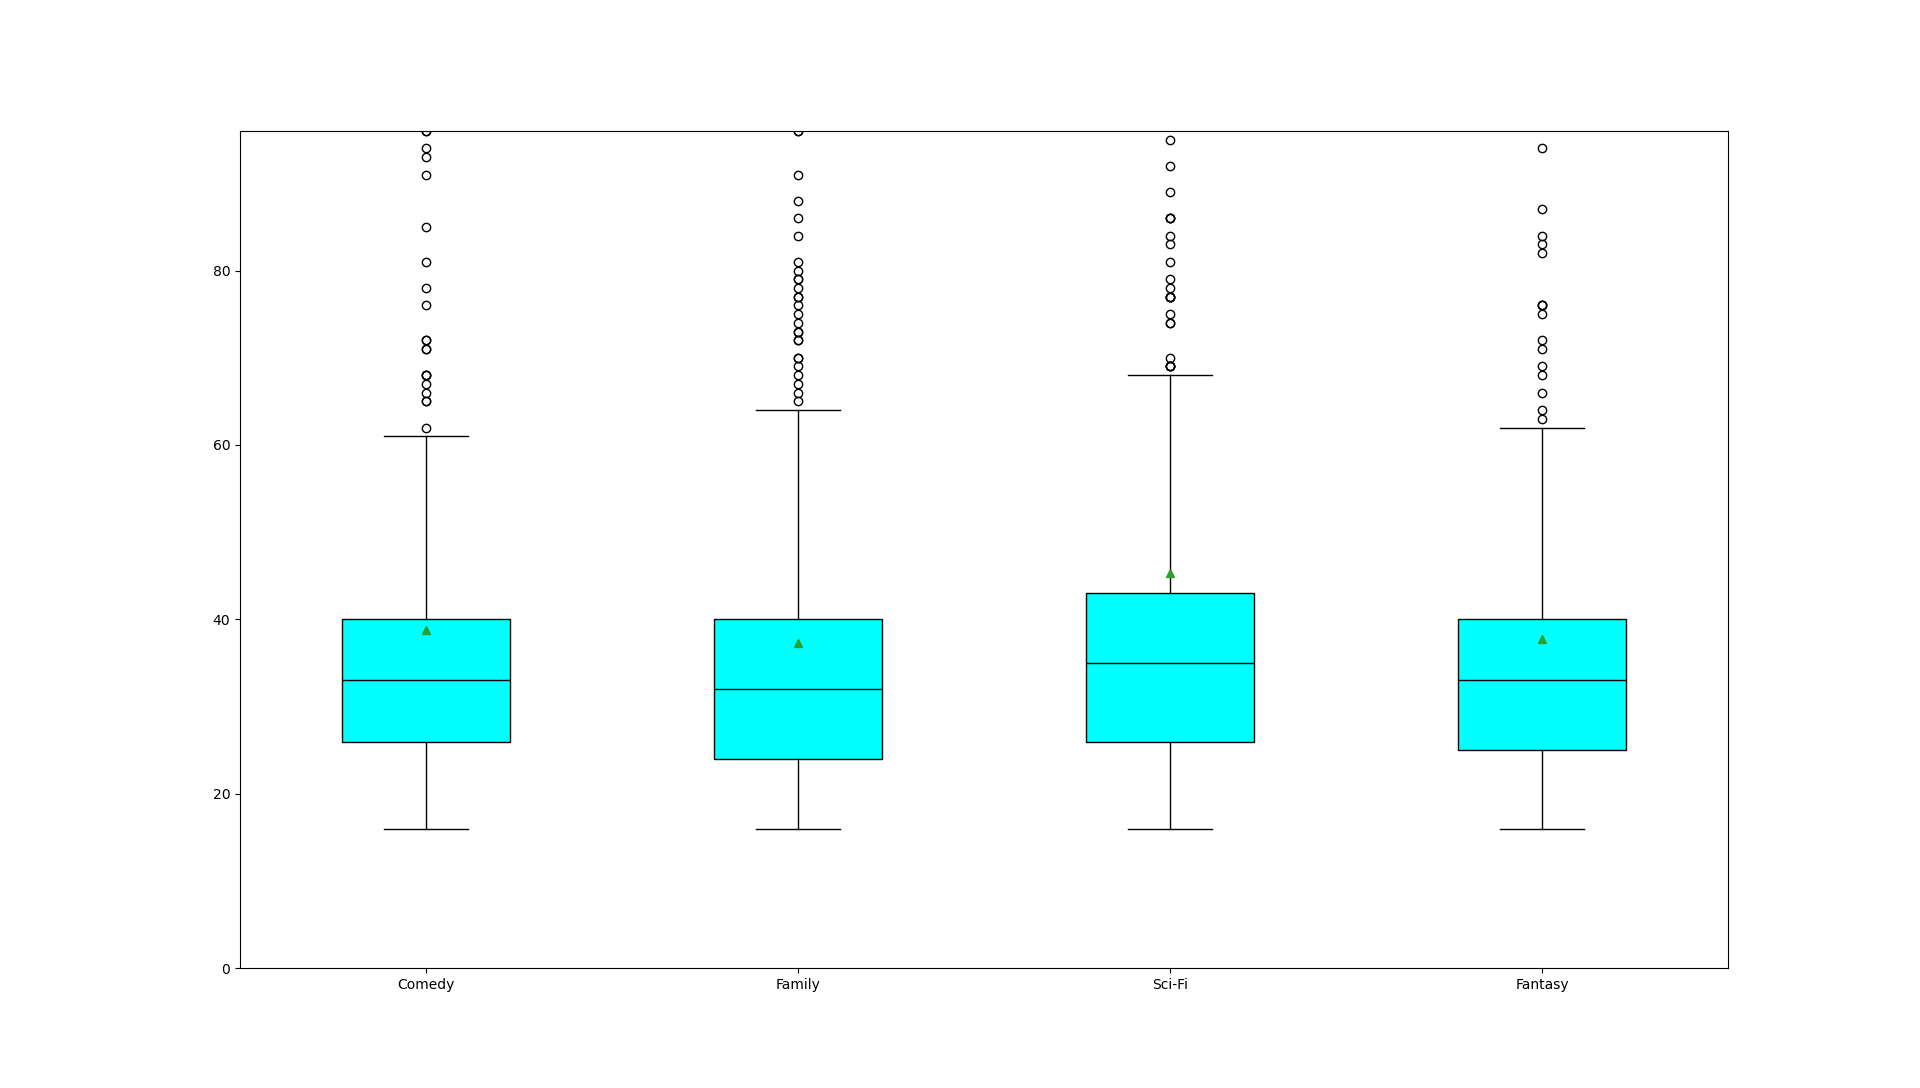
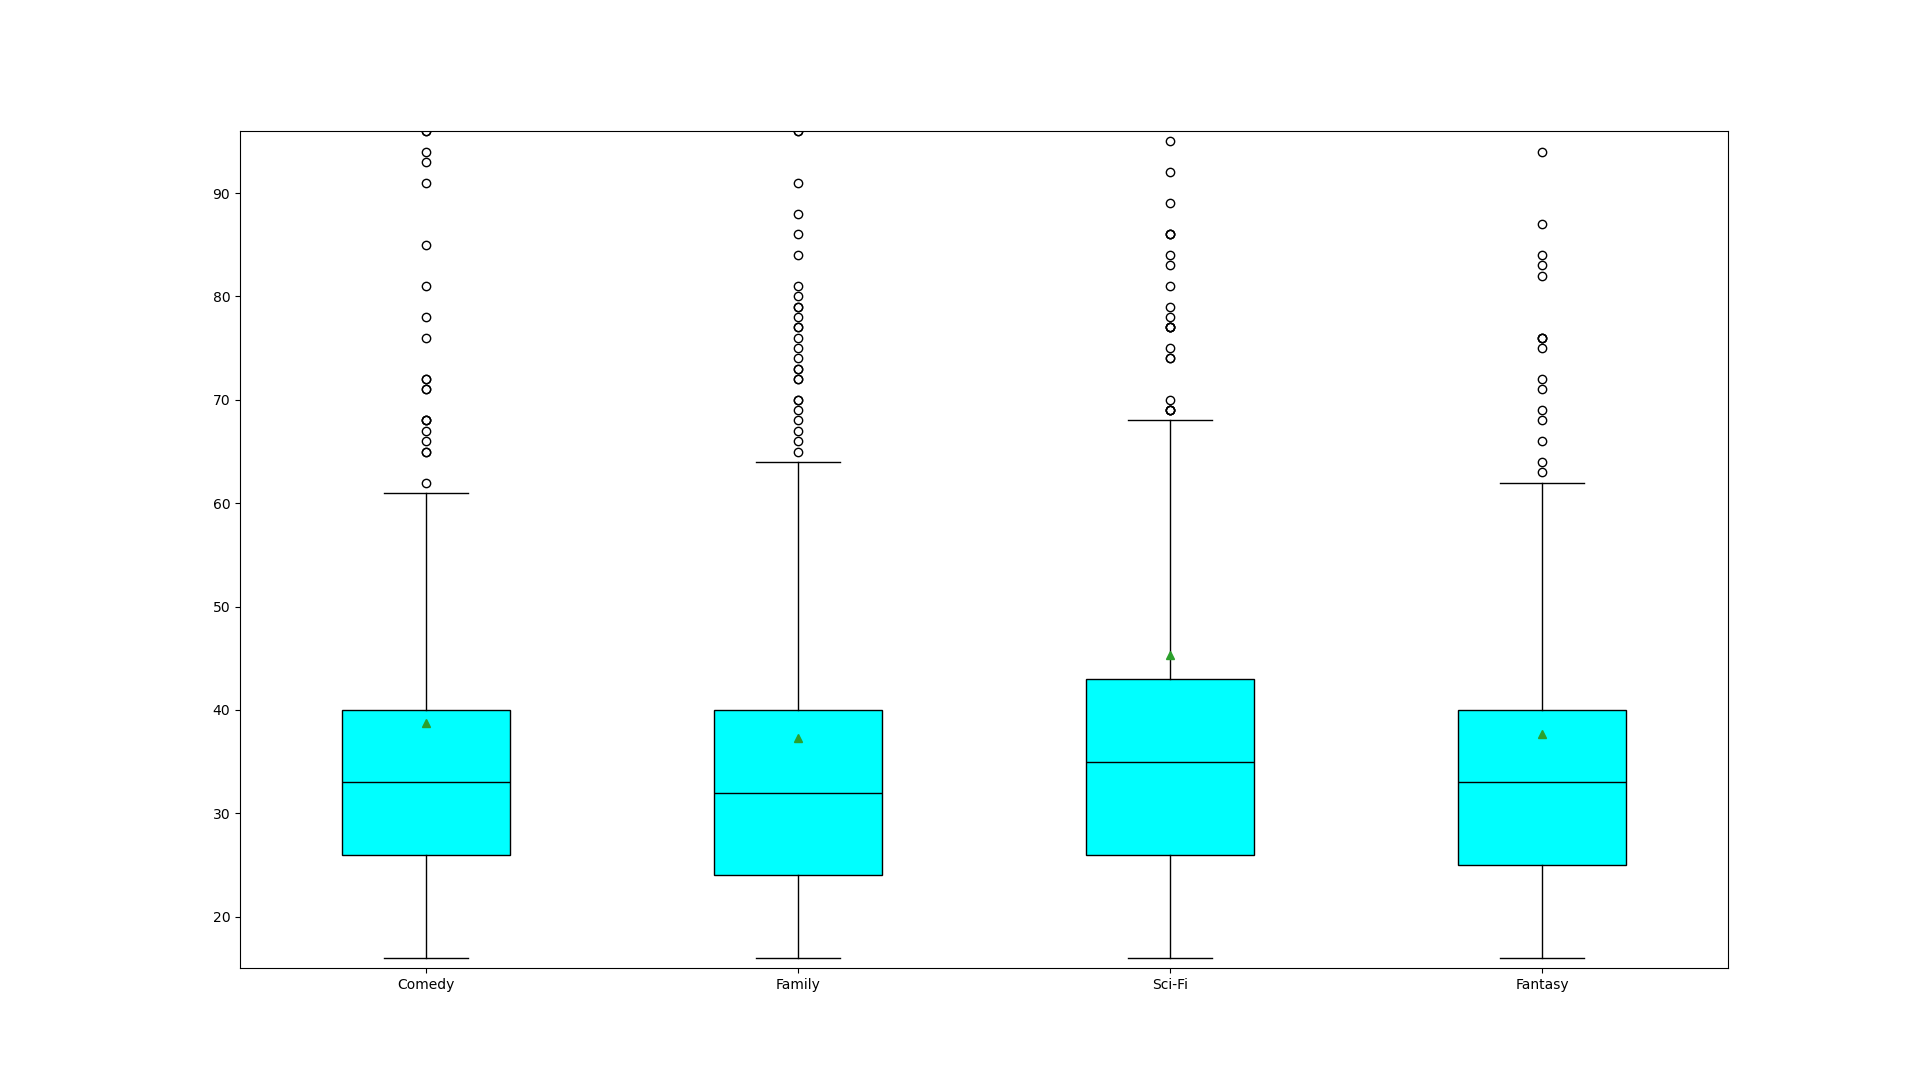
adaptation de la fenêtre des boxplots aux nouvelles tailles du corpus

diff --git a/src/visualization/stats_descriptives.py b/src/visualization/stats_descriptives.py
@@ -51,7 +51,7 @@ def plot_descriptifs(data: dict):
     # Ajustement de la fenêtre pour exclure du visuel les 5% de données supérieures
     # (qui sont abérantes)
     limite_superieure = np.percentile(all_data, 95)
-    ax.set_ylim( 0, limite_superieure)
+    ax.set_ylim(15, limite_superieure)
     
     # Changement des couleurs
     for box in boxplot['boxes']:
